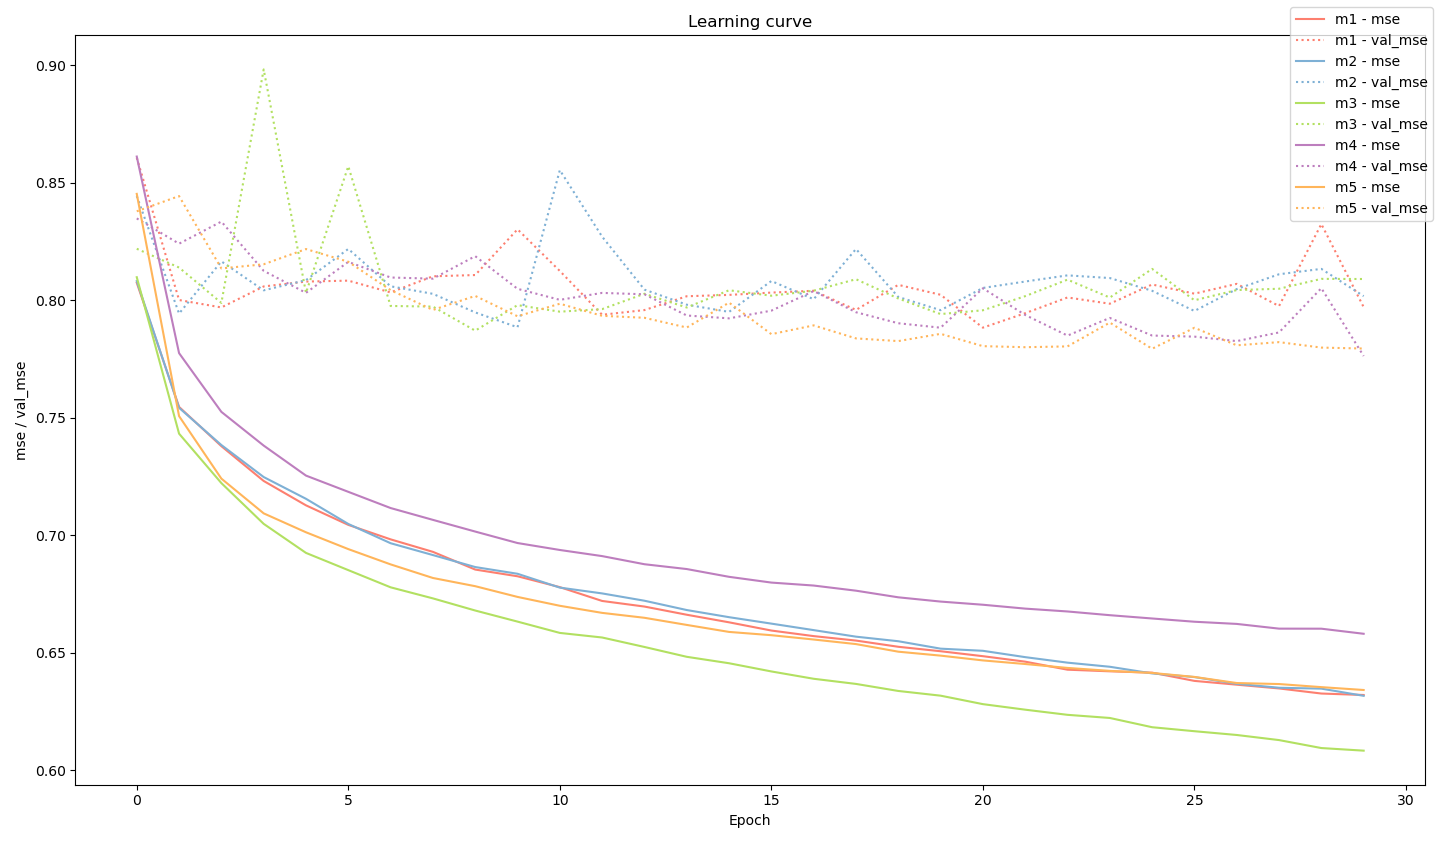
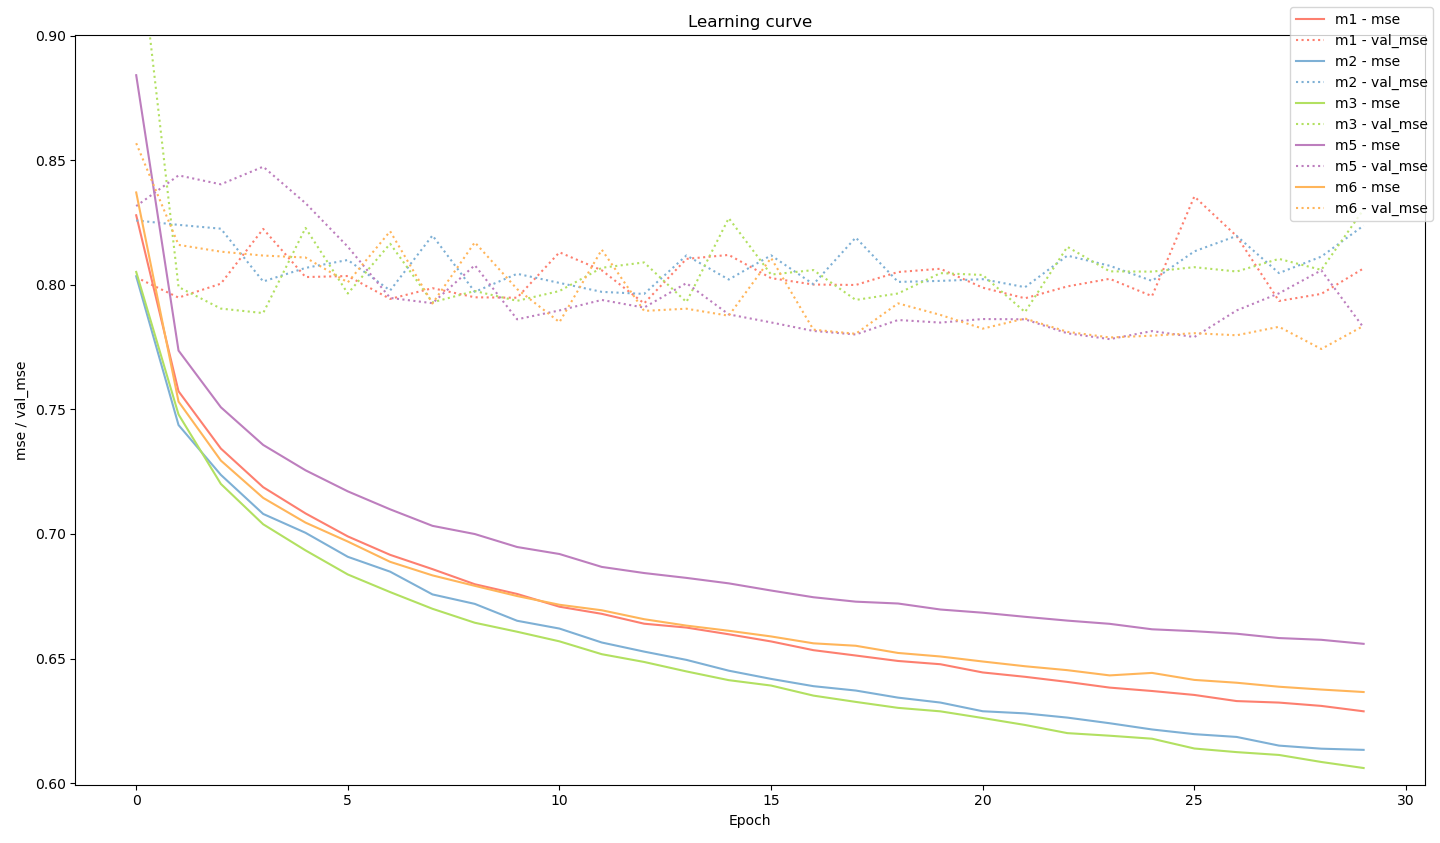
Fixed labels for content-based models on second development iteration

diff --git a/cb_filtering_v2.py b/cb_filtering_v2.py
@@ -61,7 +61,7 @@ def build_model_3():
     return ks.Model(inputs=[movie_input, user_input], outputs=[output], name='m3')
 
 
-def build_model_4():
+def build_model_5():
     movie_input = ks.Input(21, name='movie')
     x = ks.layers.Dense(200, activation='relu')(movie_input)
     x = ks.layers.Dense(200, activation='relu')(x)
@@ -77,10 +77,10 @@ def build_model_4():
     x = dot_node([movie_node, user_node])
     output = tf.math.multiply(x, 5, 'scale')
 
-    return ks.Model(inputs=[movie_input, user_input], outputs=[output], name='m4')
+    return ks.Model(inputs=[movie_input, user_input], outputs=[output], name='m5')
 
 
-def build_model_5():
+def build_model_6():
     movie_input = ks.Input(21, name='movie')
     x = ks.layers.Dense(200, activation='relu')(movie_input)
     x = ks.layers.Dense(200, activation='relu')(x)
@@ -97,7 +97,7 @@ def build_model_5():
     x = tf.math.add(x, 1, 'shift')
     output = tf.math.multiply(x, 2.5, 'scale')
 
-    return ks.Model(inputs=[movie_input, user_input], outputs=[output], name='m5')
+    return ks.Model(inputs=[movie_input, user_input], outputs=[output], name='m6')
 
 
 def export_model_architectures(models):
@@ -119,10 +119,10 @@ def main():
     dev_user_df = dev_user_df[:dev_set_size]
     dev_rating_df = dev_rating_df[:dev_set_size]
 
-    models = [build_model_1(), build_model_2(), build_model_3(), build_model_4(), build_model_5()]
+    models = [build_model_1(), build_model_2(), build_model_3(), build_model_5(), build_model_6()]
     histories = []
 
-    export_model_architectures([m for m in models if m.name in ['m4', 'm5']])
+    export_model_architectures([m for m in models if m.name in ['m5', 'm6']])
 
     for model in models:
         print(f'Fitting: {model.name}'.center(98, '-'))

diff --git a/report/REPORT.md b/report/REPORT.md
@@ -399,19 +399,19 @@ to **lower learning rate**.
 Training and evaluation curves have a growing gap between them, which indicates a **high variance** problem, so we
 will add more training examples to the training set.
 
-We will add new models with labels _m4_ and _m5_. They will have **cosine similarity** layer instead of vanilla dot
+We will add new models with labels _m5_ and _m6_. They will have **cosine similarity** layer instead of vanilla dot
 product, so their predictions will be independent of movie and user representations' magnitude. The difference will be
-that **_m4_ uses ReLU activation, and _m5_ uses linear activation**. Relu gives only positive numbers, the cosine
+that **_m5_ uses ReLU activation, and _m6_ uses linear activation**. Relu gives only positive numbers, the cosine
 similarity cannot be negative. It is more intuitive, but maybe it will converge not as good, so we should try both
 options.
-
-Model _m4_:
-
-![](cb_filtering_v2_m4.png)
 
 Model _m5_:
 
 ![](cb_filtering_v2_m5.png)
+
+Model _m6_:
+
+![](cb_filtering_v2_m6.png)
 
 Learning curves:
 
